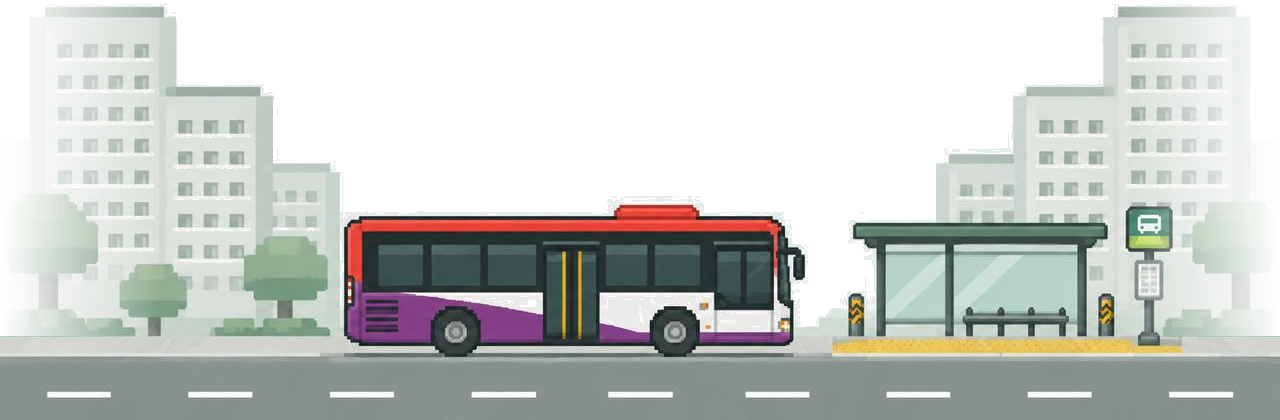
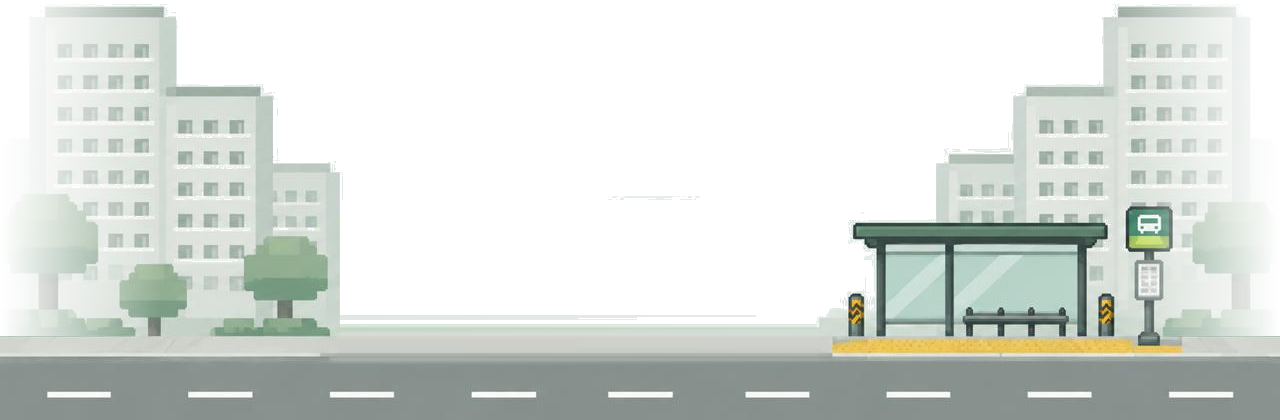
Drive the street's bus in to the bus stop
The bus is now its own layer: bus-side.webp, cut from the street picture,
which is rebuilt without it. layout.js adds it to pages with the street;
the first time the street scrolls into view, the bus drives in from the left
and stops at the bus stop, once. With reduced motion it stays parked.

Changed region(s): [[0.25, 0.4643, 0.6562, 0.8667]]

diff --git a/frontend/assets/styles/base.css b/frontend/assets/styles/base.css
@@ -74,6 +74,29 @@ h2 { margin: 0; font-family: var(--pixel); font-size: 24px; line-height: 1.25; f
     linear-gradient(var(--bg) calc(100% - var(--scene) - 220px), var(--sky) calc(100% - var(--scene)));
 }
 .street-scene main { padding-bottom: calc(var(--scene) + 48px); }
+/* The street's bus is its own layer (layout.js adds it), parked where it sits in the picture: 464 x 156 source pixels,
+   298 left of the centre and 61 above the bottom. The first time the street scrolls into view, the bus drives in from
+   the left and stops at the bus stop. The box stays put so it can be watched; the bus is drawn on ::before. */
+.street-scene { position: relative; }
+.street-bus {
+  position: absolute;
+  left: calc(50% - 298 * var(--px));
+  bottom: calc(61 * var(--px));
+  width: calc(464 * var(--px));
+  height: calc(156 * var(--px));
+  pointer-events: none;
+}
+.street-bus::before {
+  content: "";
+  position: absolute;
+  inset: 0;
+  background: url(../images/bus-side.webp) 0 0 / 100% 100% no-repeat;
+}
+.street-bus.waiting::before { transform: translateX(calc(-50vw - 100%)); }
+/* Slows to a stop over 2.8 s, bobbing a little while it moves. */
+.street-bus.arriving::before { animation: bus-arrive 2.8s cubic-bezier(.15, .6, .25, 1) both, bus-bob 200ms steps(1, end) 12; }
+@keyframes bus-arrive { from { transform: translateX(calc(-50vw - 100%)); } }
+@keyframes bus-bob { 50% { translate: 0 calc(-1.5 * var(--px)); } }
 h3 { margin: 0; font-size: 17px; font-weight: 600; line-height: 1.35; }
 p { line-height: 1.5; }
 .muted { color: var(--muted); }

diff --git a/frontend/assets/js/components/layout.js b/frontend/assets/js/components/layout.js
@@ -11,3 +11,20 @@ if (header) {
   pages.forEach(([href, label]) => nav.append(el('a', {href, 'aria-current': href === current ? 'page' : null}, label)));
   header.replaceChildren(nav);
 }
+
+// Pages with the street scene get its bus as a separate layer (styles in base.css). It is parked by default; with
+// motion allowed, it waits off-screen and drives in the first time the street scrolls into view.
+if (document.body.classList.contains('street-scene')) {
+  const bus = el('div', {class: 'street-bus', 'aria-hidden': 'true'});
+  const moving = 'IntersectionObserver' in window && !matchMedia('(prefers-reduced-motion: reduce)').matches;
+  if (moving) bus.classList.add('waiting');
+  document.body.append(bus);
+  if (moving) {
+    const observer = new IntersectionObserver(entries => {
+      if (!entries.some(entry => entry.isIntersecting)) return;
+      observer.disconnect();
+      requestAnimationFrame(() => bus.classList.replace('waiting', 'arriving'));
+    }, {threshold: 0.6});
+    observer.observe(bus);
+  }
+}
